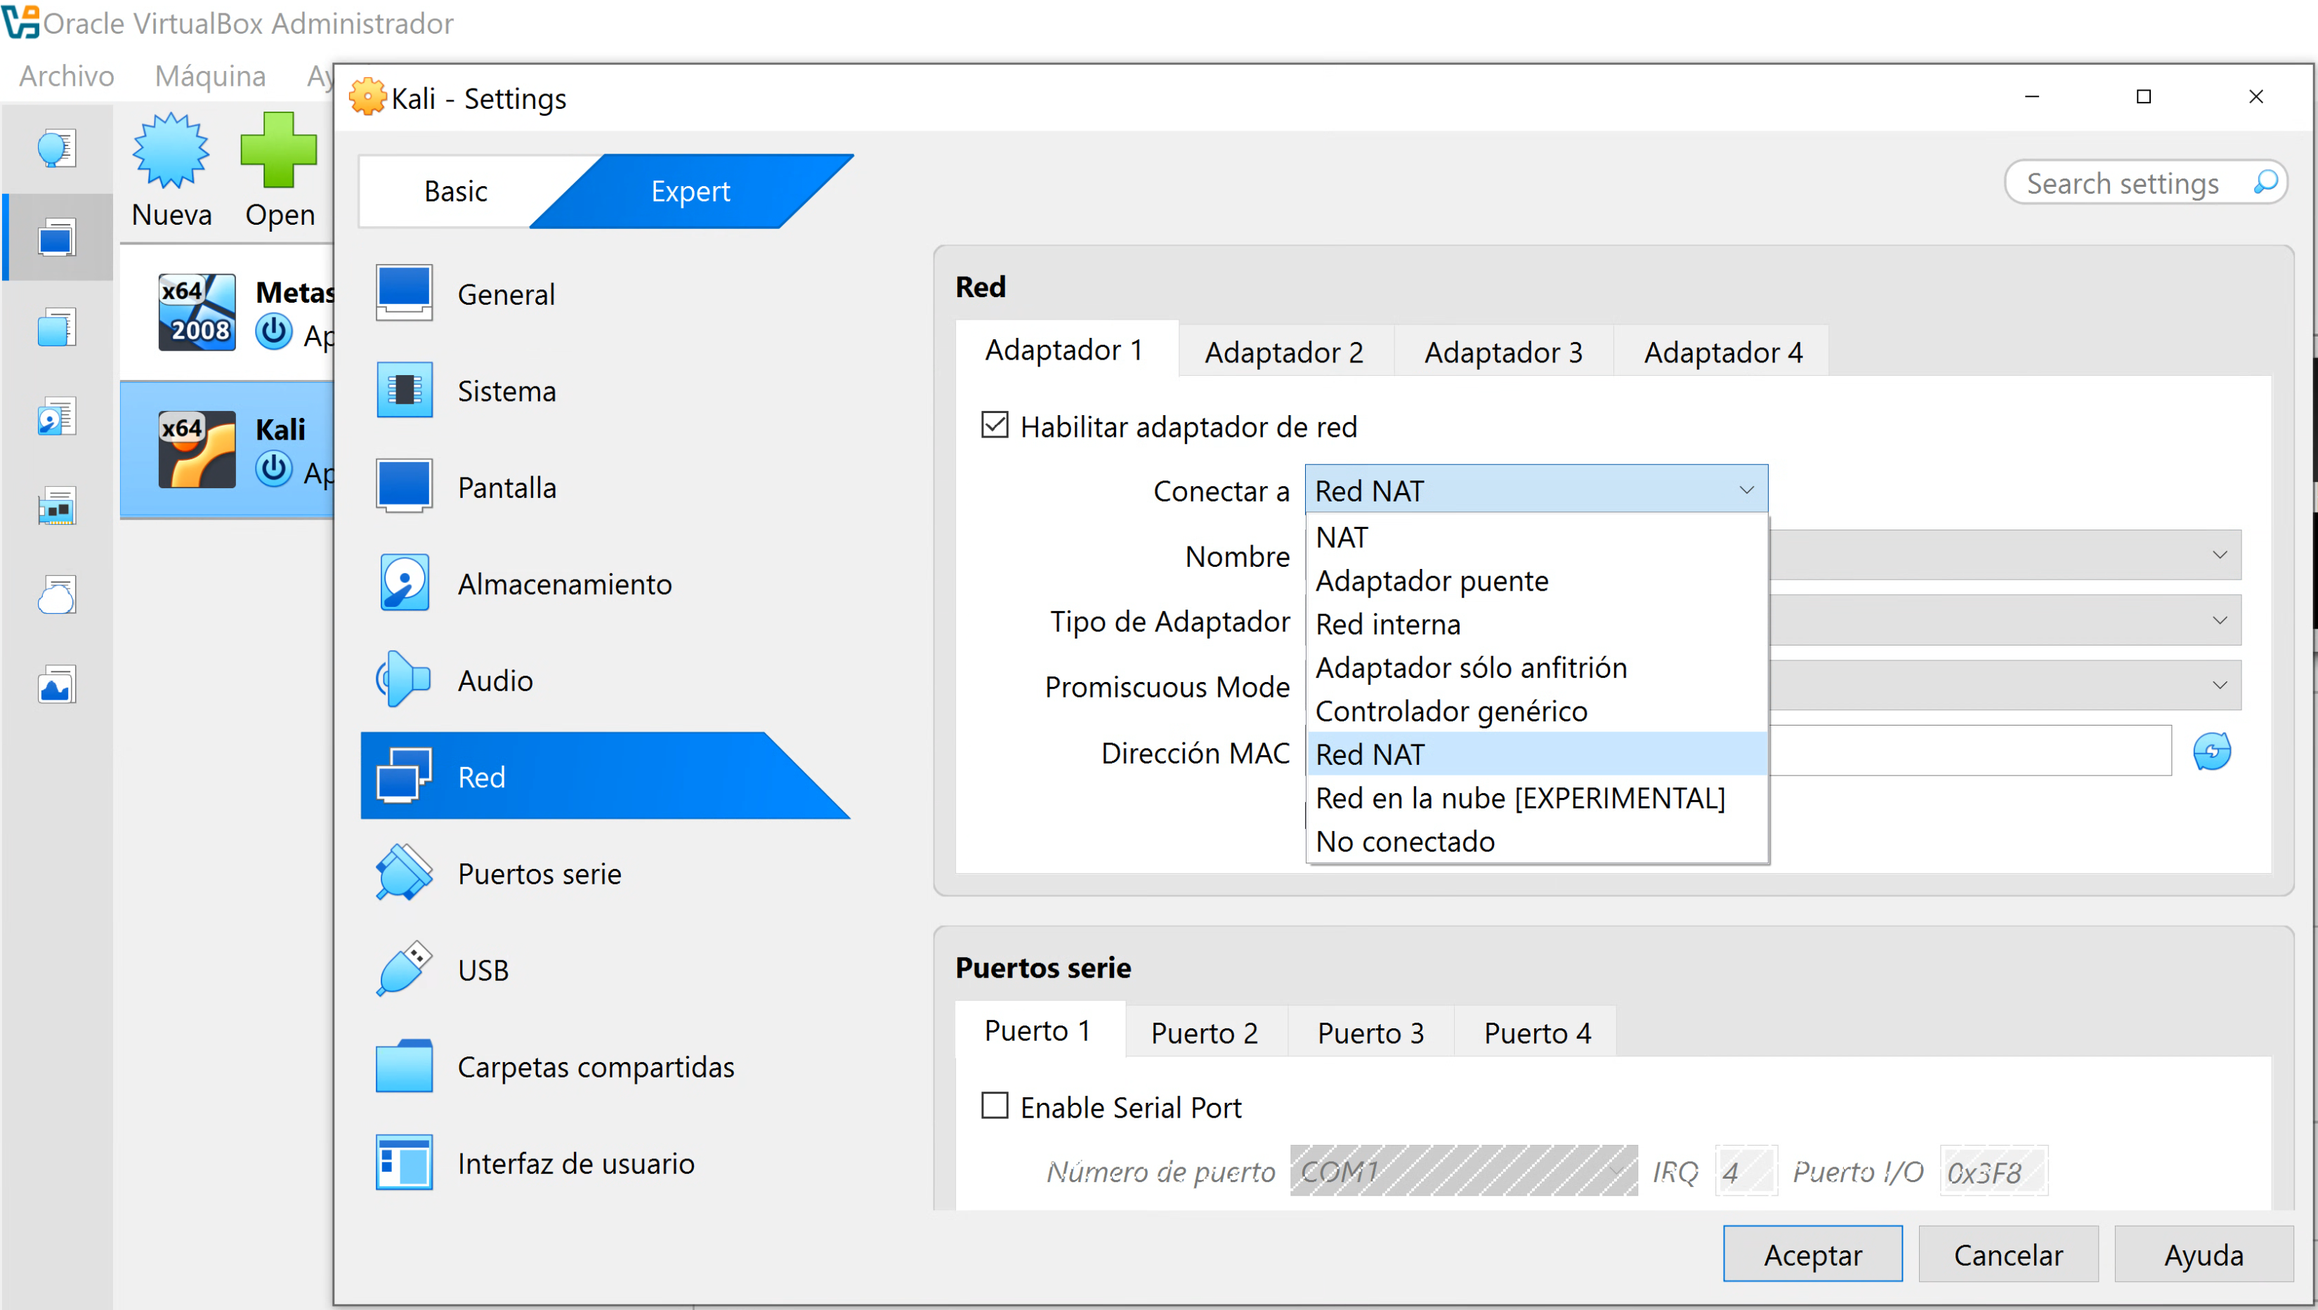
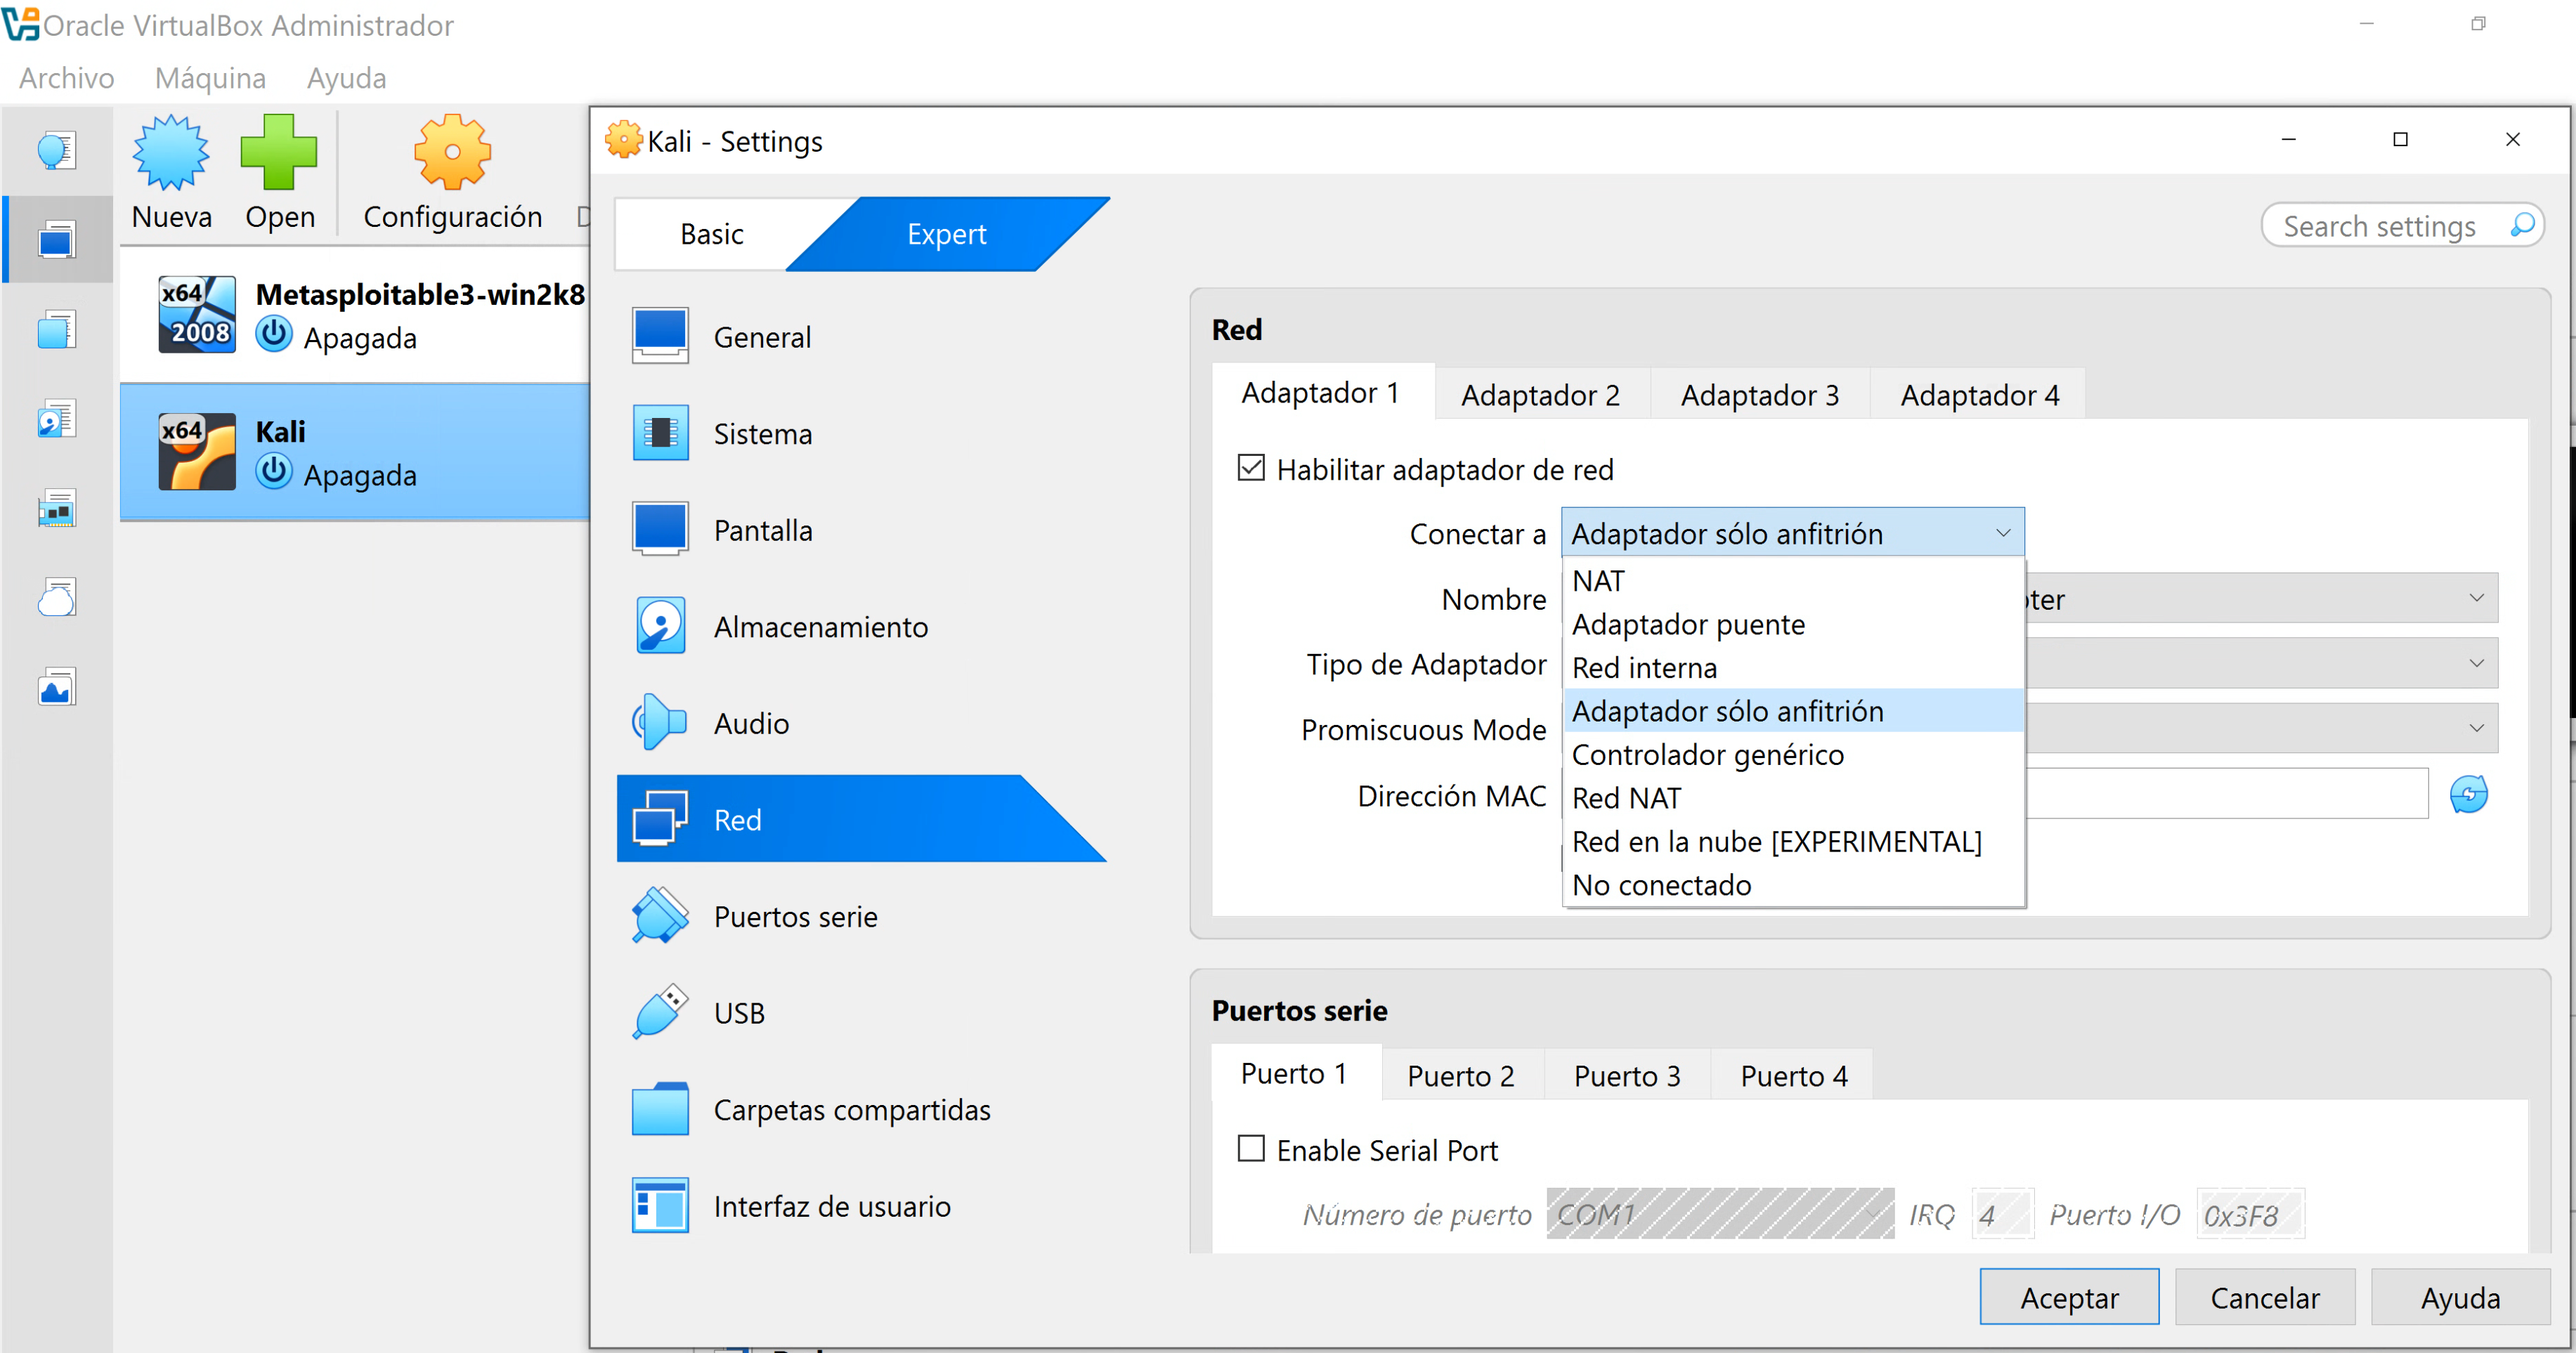
Segundo post

diff --git a/_posts/2026-05-24-lab01.md b/_posts/2026-05-24-lab01.md
@@ -5,7 +5,7 @@ categories: [lab, setup]
 tags: [metasploitable, virtualbox, kali]
 ---
 
-# PASOS GUÍA PARA EL LAB 01 - SEMANA 04 _ MIET 2026 I
+# **PASOS GUÍA PARA EL LAB 01 - SEMANA 04 _ MIET 2026 I**
 
 ## **Paso 01 - Instalar VirtualBox**
 
@@ -94,7 +94,7 @@ Se utiliza una red Host-Only porque permite la comunicación entre la máquina a
 
 Acciones:
 
-### *A. Configuración de red*
+### *Configuración de red*
 
 ⚠ Muy importante  ⚠
 
@@ -102,13 +102,81 @@ Kali y Metasploitable deben estar apagadas 🔌. Como se ve a continuación,
 
 ![Importación](/assets/imag1/kalimetaoff.png)
 
-Seleccionamos **Metasploitable** , clic en settings luego nos dirigimos a **Red** y en *conectar a* cambiamos a Red Nat . *Ver 👀 imagen* 
+╰┈➤ Seleccionamos **Metasploitable** , clic en settings luego nos dirigimos a **Red** y en *conectar a* cambiamos a Adaptador solo anfitrion. *Ver 👀 imagen* 
 
 ![Importación](/assets/imag1/metared.png)
 
-Repetir exactamente lo mismo para **Kali Linux**. *Ver 👀 imagen*
+╰┈➤ Repetir exactamente lo mismo para **Kali Linux**. *Ver 👀 imagen*
 
 ![Importación](/assets/imag1/kalired.png)
+
+## **Paso 04 - Captura de nmap con ambas IPs visibles**
+
+
+╰┈➤ Iniciar las máquinas 
+
+
+1⃣ Primero: Kali Linux
+Se obtiene su IP: 
+
+    *Ver 👀 imagen*
+
+![Importación](/assets/imag1/ipkali.png)
+
+
+2⃣ Segundo: Metasploitable obtiene su IP *(Ver 👀 imagen)*
+
+![Importación](/assets/imag1/ipmeta.png)
+
+3⃣ Desde la termina de Kali Linux ejecutamos *"nmap -sn 192.168.56.0/24"* para identificar los dispositivos conectados en la red virtual Host-Only. *(Ver 👀 imagen)*
+
+
+![Importación](/assets/imag1/nmap.png)
+
+El parámetro `-sn` permite realizar un descubrimiento de hosts activos, resultando:
+
+
+| IP | Dispositivo | Función |
+|---|---|---|
+| 192.168.56.1 | VirtualBox Host | Adaptador Host-Only |
+| 192.168.56.101 | Metasploitable | Máquina vulnerable |
+| 192.168.56.102 | Kali Linux | Máquina atacante |
+
+
+## **Paso 05 - Ping exitoso entre VMs**
+      
+      Kali ↔ Metasploitable
+
+
+### Verificación de conectividad bidireccional
+
+Se realizaron pruebas de conectividad mediante *ping* entre Kali Linux y Metasploitable.
+
+#### Desde Kali Linux hacia Metasploitable
+
+*ping 192.168.56.101*
+
+La máquina respondió correctamente. *(Ver 👀 imagen)*
+
+![Importación](/assets/imag1/pingkali.png)
+
+
+#### Desde Metasploitable hacia Kali Linux
+
+*ping 192.168.56.102*
+
+También se obtuvo respuesta exitosa. *(Ver 👀 imagen)*
+
+![Importación](/assets/imag1/pingmeta.png)
+
+
+Estas pruebas confirmaron la correcta comunicación bidireccional entre ambas máquinas virtuales dentro de la red Host-Only.
+
+
+
+
+
+
 
 
 
